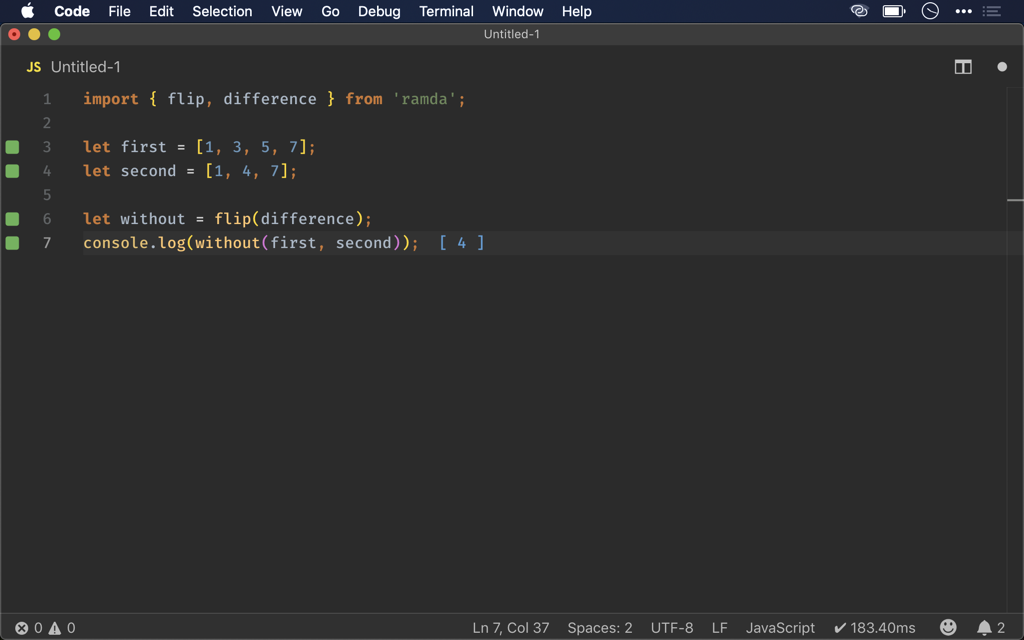
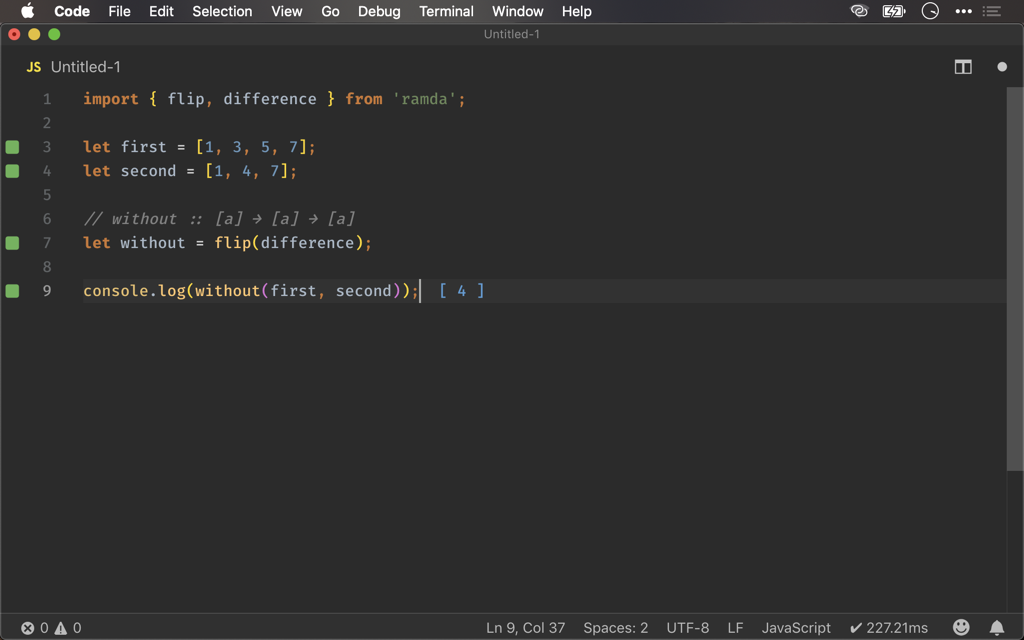
Ramda 之 without()

diff --git a/source/_posts/ramda/without.md b/source/_posts/ramda/without.md
@@ -9,8 +9,6 @@ date: 2019-05-16 14:23:03
 ---
 若要找出第一個 Array 不在第二個 Array 的 Element，我們會使用 `difference()`，若要找出第二個 Array 不在第一個 Array 的 Element 呢 ?
 
-<!-- more -->
-
 ## Version
 
 VS Code 1.33.1
@@ -28,9 +26,6 @@ let second = [1, 4, 7];
 // without :: [a] → [a] → [a]
 let without = flip(difference);
 
-// fn :: [a] → [a] → [a]
-let fn = without;
-
 console.log(without(first, second));
 ```
 
@@ -38,9 +33,7 @@ console.log(without(first, second));
 
 ![without000](/images/ramda/without/without000.png)
 
-## without()
-
-### Primitive
+## Primitive
 
 ```javascript
 import { without } from 'ramda';
@@ -65,7 +58,7 @@ console.log(without(first, second));
 
 ![without001](/images/ramda/without/without001.png)
 
-### Object
+## Object
 
 ```javascript
 import { without } from 'ramda';
